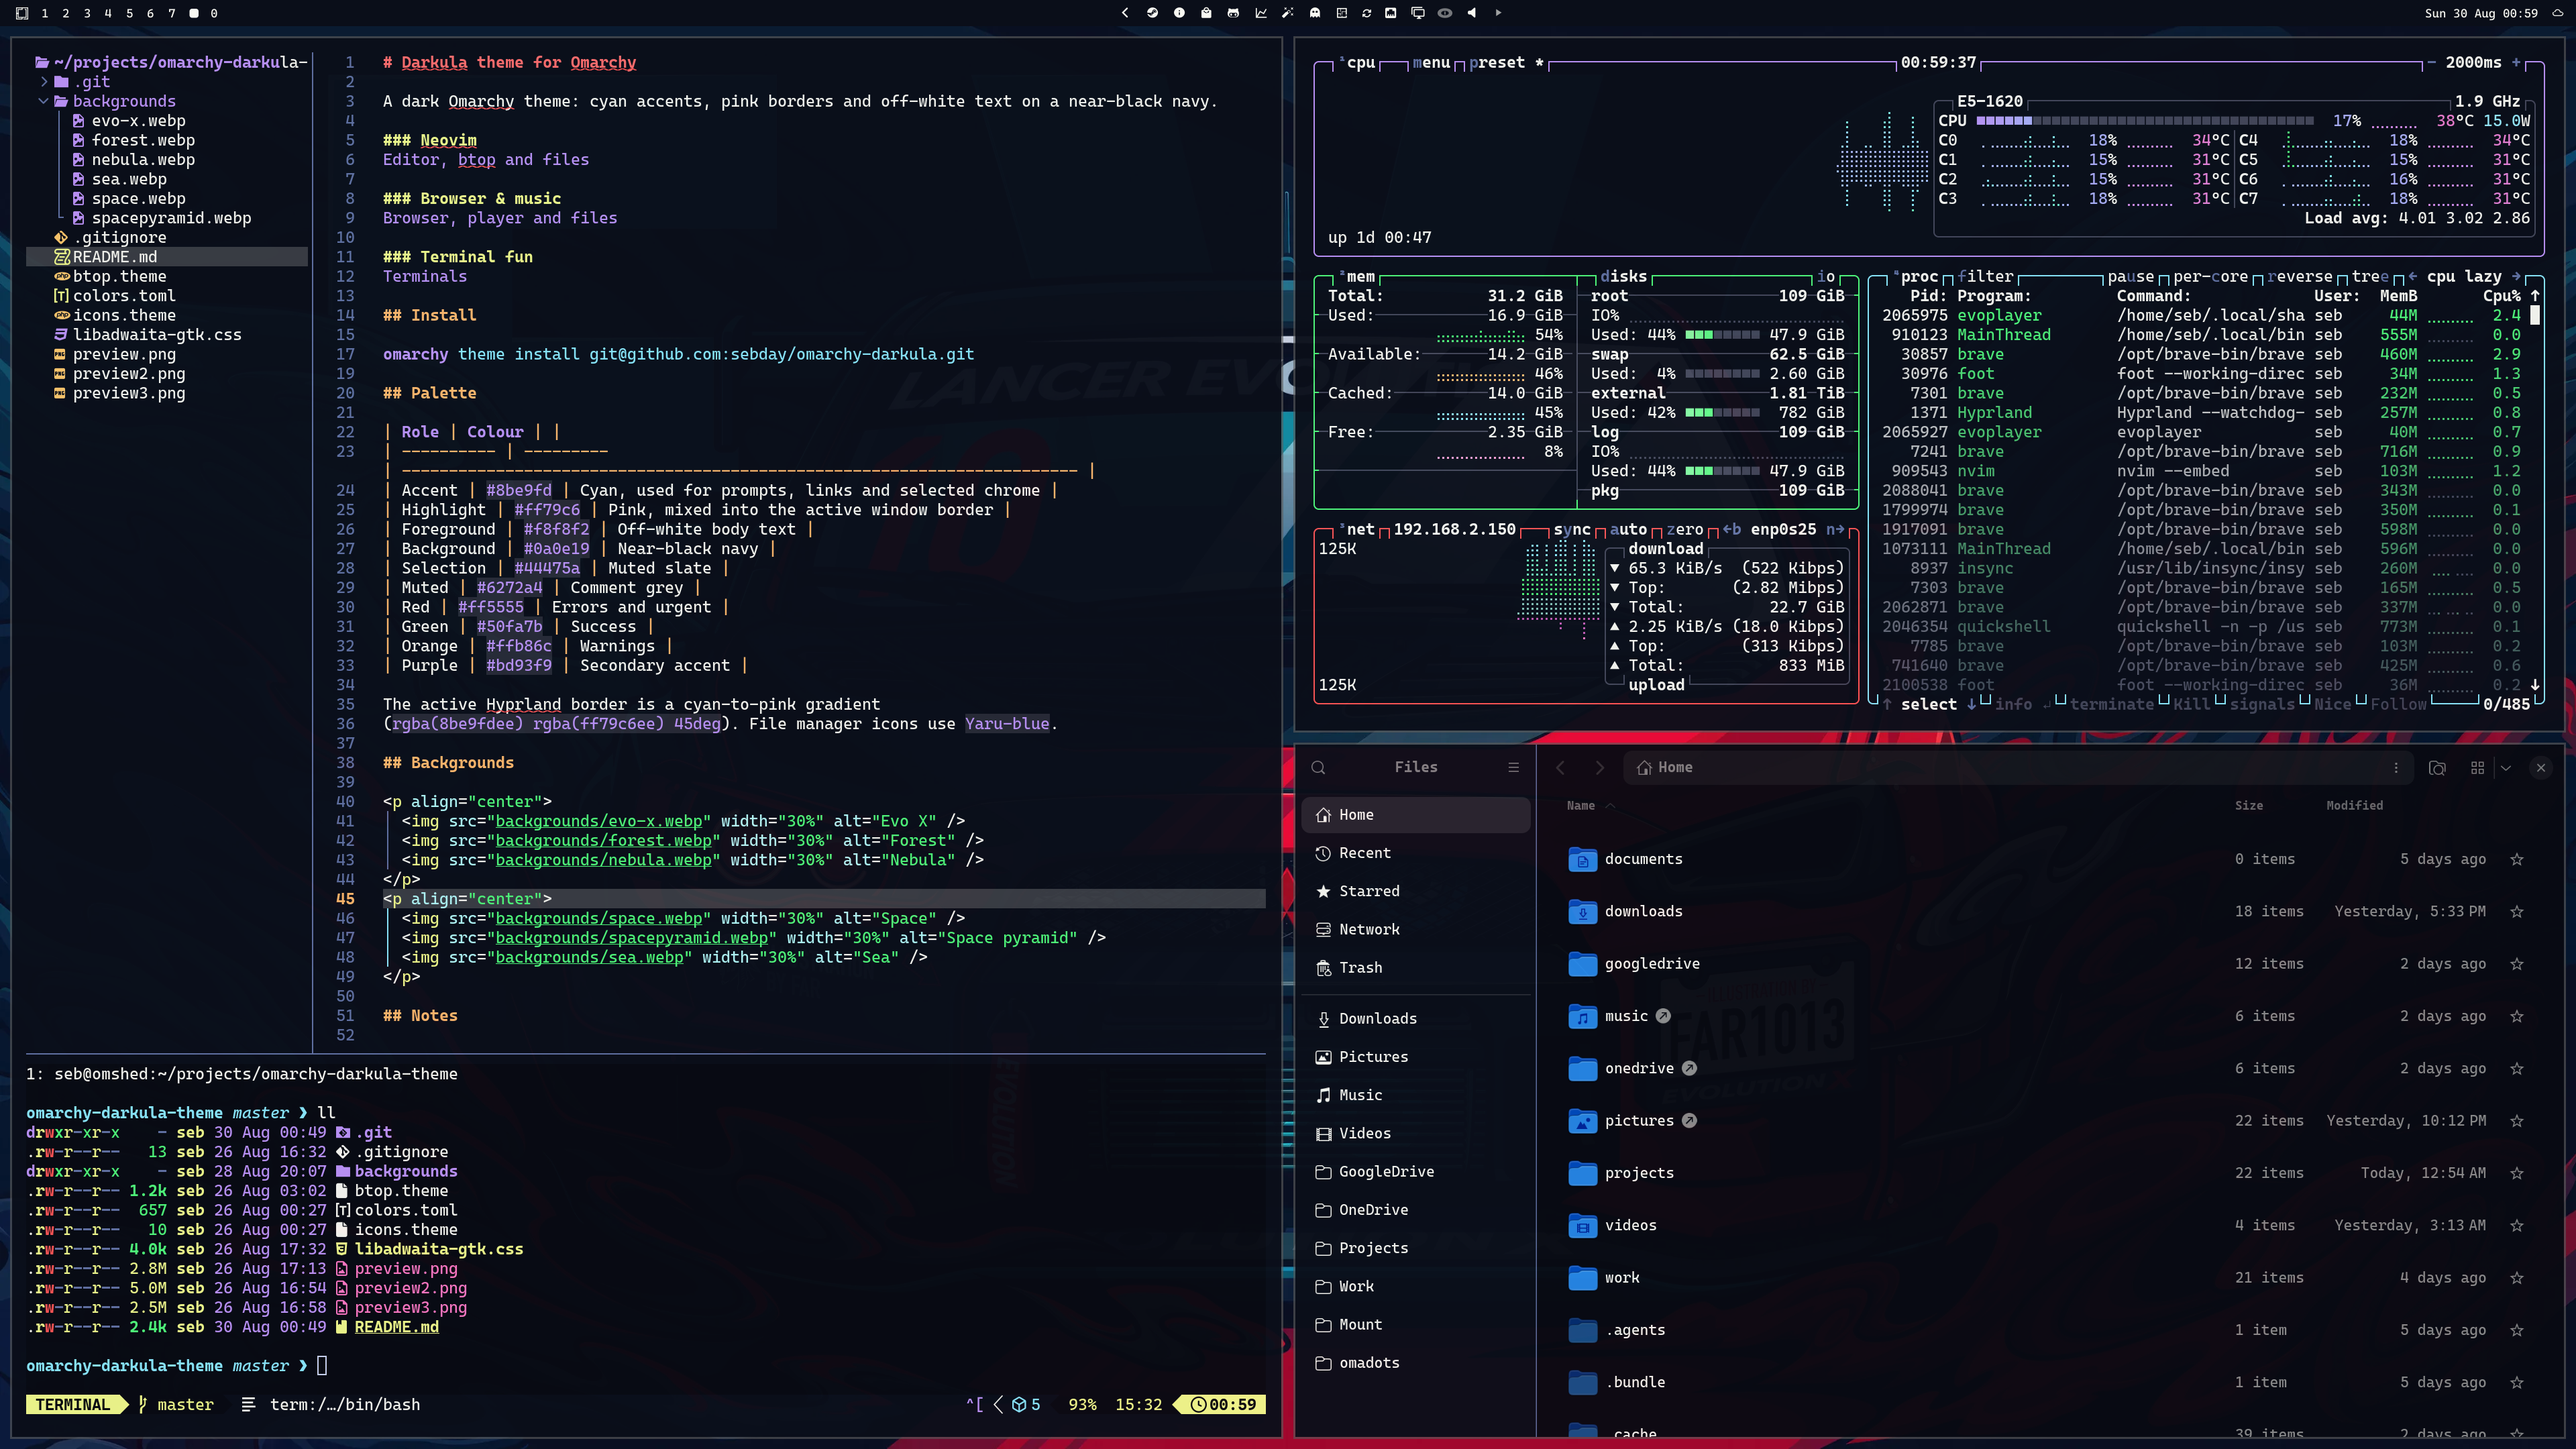
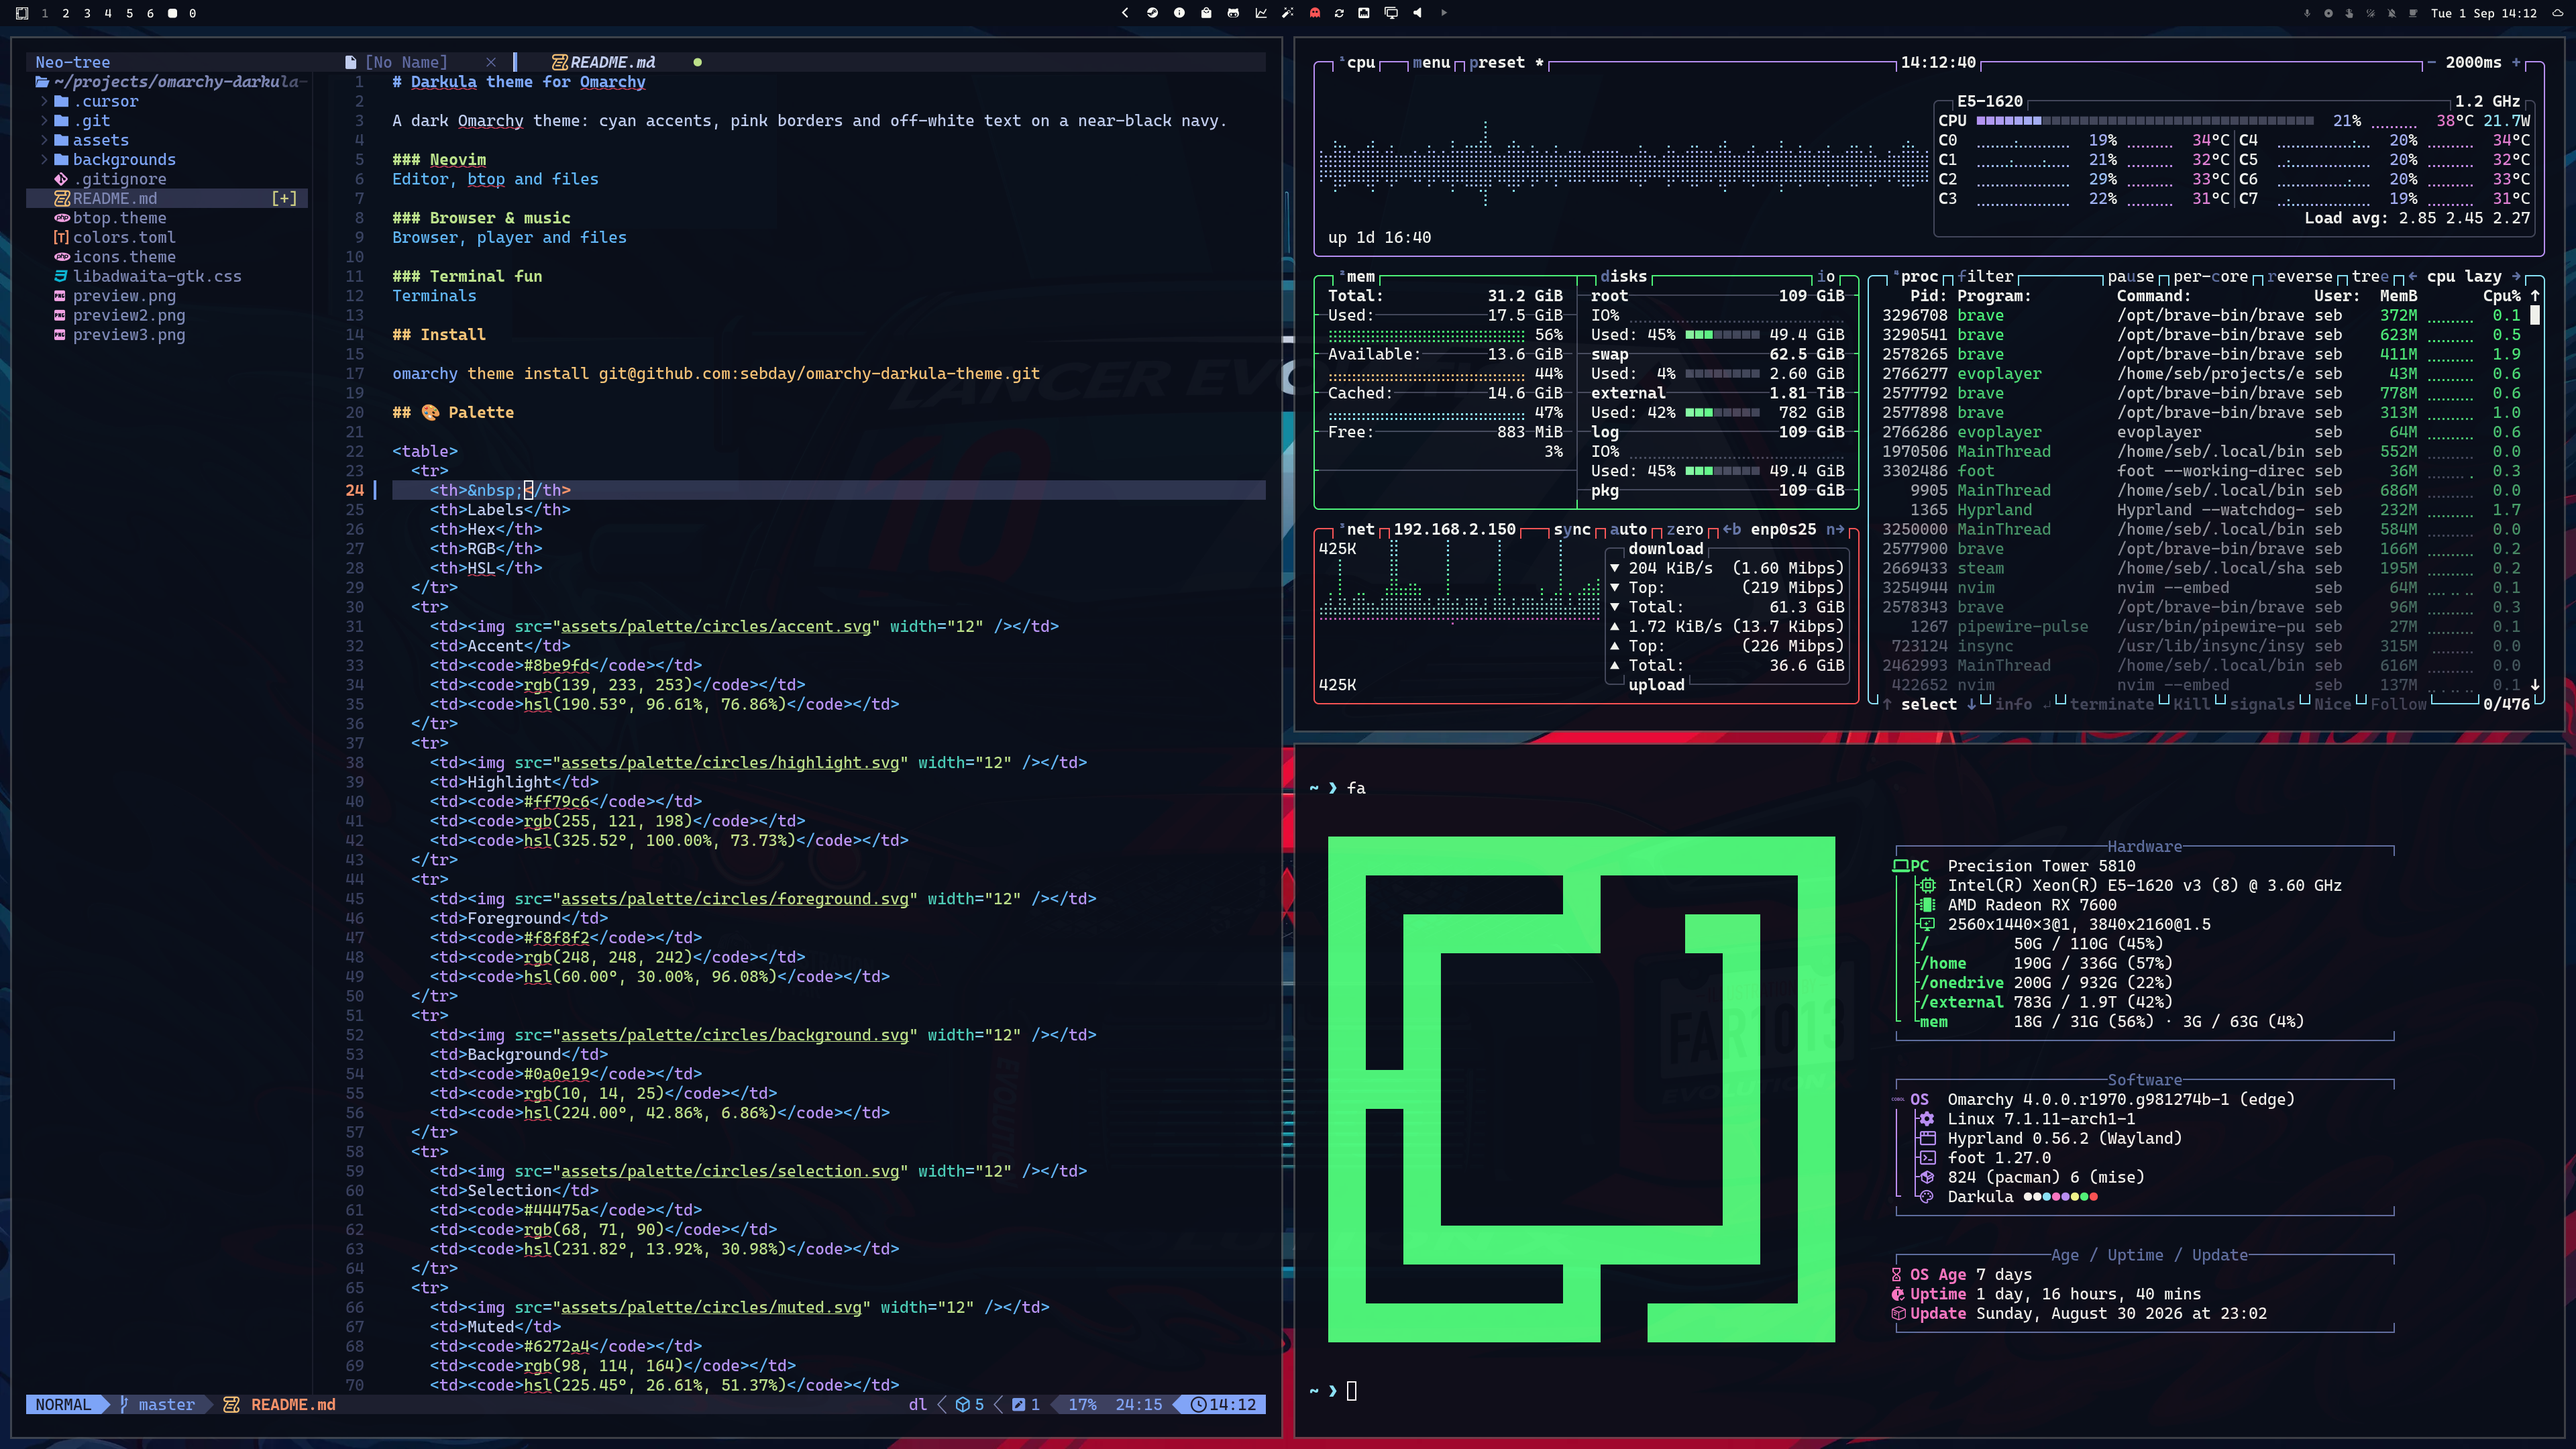
Add pallete & new preview

diff --git a/README.md b/README.md
@@ -8,29 +8,93 @@ A dark Omarchy theme: cyan accents, pink borders and off-white text on a near-bl
 ### Browser & music
 ![Browser, player and files](preview2.png)
 
-### Terminal fun
-![Terminals](preview3.png)
-
 ## Install
 
 ```bash
-omarchy theme install git@github.com:sebday/omarchy-darkula.git
+omarchy theme install git@github.com:sebday/omarchy-darkula-theme.git
 ```
 
-## Palette
+## 🎨 Palette
 
-| Role | Colour | |
-| ---------- | --------- | ------------------------------------------------------------------------ |
-| Accent | `#8be9fd` | Cyan, used for prompts, links and selected chrome |
-| Highlight | `#ff79c6` | Pink, mixed into the active window border |
-| Foreground | `#f8f8f2` | Off-white body text |
-| Background | `#0a0e19` | Near-black navy |
-| Selection | `#44475a` | Muted slate |
-| Muted | `#6272a4` | Comment grey |
-| Red | `#ff5555` | Errors and urgent |
-| Green | `#50fa7b` | Success |
-| Orange | `#ffb86c` | Warnings |
-| Purple | `#bd93f9` | Secondary accent |
+<table>
+  <tr>
+    <th>&nbsp;&nbsp;&nbsp;</th>
+    <th>Labels</th>
+    <th>Hex</th>
+    <th>RGB</th>
+    <th>HSL</th>
+  </tr>
+  <tr>
+    <td><img src="assets/palette/circles/accent.svg" width="12" /></td>
+    <td>Accent</td>
+    <td><code>#8be9fd</code></td>
+    <td><code>rgb(139, 233, 253)</code></td>
+    <td><code>hsl(190.53°, 96.61%, 76.86%)</code></td>
+  </tr>
+  <tr>
+    <td><img src="assets/palette/circles/highlight.svg" width="12" /></td>
+    <td>Highlight</td>
+    <td><code>#ff79c6</code></td>
+    <td><code>rgb(255, 121, 198)</code></td>
+    <td><code>hsl(325.52°, 100.00%, 73.73%)</code></td>
+  </tr>
+  <tr>
+    <td><img src="assets/palette/circles/foreground.svg" width="12" /></td>
+    <td>Foreground</td>
+    <td><code>#f8f8f2</code></td>
+    <td><code>rgb(248, 248, 242)</code></td>
+    <td><code>hsl(60.00°, 30.00%, 96.08%)</code></td>
+  </tr>
+  <tr>
+    <td><img src="assets/palette/circles/background.svg" width="12" /></td>
+    <td>Background</td>
+    <td><code>#0a0e19</code></td>
+    <td><code>rgb(10, 14, 25)</code></td>
+    <td><code>hsl(224.00°, 42.86%, 6.86%)</code></td>
+  </tr>
+  <tr>
+    <td><img src="assets/palette/circles/selection.svg" width="12" /></td>
+    <td>Selection</td>
+    <td><code>#44475a</code></td>
+    <td><code>rgb(68, 71, 90)</code></td>
+    <td><code>hsl(231.82°, 13.92%, 30.98%)</code></td>
+  </tr>
+  <tr>
+    <td><img src="assets/palette/circles/muted.svg" width="12" /></td>
+    <td>Muted</td>
+    <td><code>#6272a4</code></td>
+    <td><code>rgb(98, 114, 164)</code></td>
+    <td><code>hsl(225.45°, 26.61%, 51.37%)</code></td>
+  </tr>
+  <tr>
+    <td><img src="assets/palette/circles/red.svg" width="12" /></td>
+    <td>Red</td>
+    <td><code>#ff5555</code></td>
+    <td><code>rgb(255, 85, 85)</code></td>
+    <td><code>hsl(0.00°, 100.00%, 66.67%)</code></td>
+  </tr>
+  <tr>
+    <td><img src="assets/palette/circles/green.svg" width="12" /></td>
+    <td>Green</td>
+    <td><code>#50fa7b</code></td>
+    <td><code>rgb(80, 250, 123)</code></td>
+    <td><code>hsl(135.18°, 94.44%, 64.71%)</code></td>
+  </tr>
+  <tr>
+    <td><img src="assets/palette/circles/orange.svg" width="12" /></td>
+    <td>Orange</td>
+    <td><code>#ffb86c</code></td>
+    <td><code>rgb(255, 184, 108)</code></td>
+    <td><code>hsl(31.02°, 100.00%, 71.18%)</code></td>
+  </tr>
+  <tr>
+    <td><img src="assets/palette/circles/purple.svg" width="12" /></td>
+    <td>Purple</td>
+    <td><code>#bd93f9</code></td>
+    <td><code>rgb(189, 147, 249)</code></td>
+    <td><code>hsl(264.71°, 89.47%, 77.65%)</code></td>
+  </tr>
+</table>
 
 The active Hyprland border is a cyan-to-pink gradient
 (`rgba(8be9fdee) rgba(ff79c6ee) 45deg`). File manager icons use `Yaru-blue`.
@@ -50,20 +114,5 @@ The active Hyprland border is a cyan-to-pink gradient
 
 ## Notes
 
-`colors.toml` is the source of truth. Omarchy generates terminal, VSCode, Chromium, foot etc shell colours from it. `btop.theme`, `icons.theme` and `libadwaita-gtk.css` are checked in so those apps keep the same palette without waiting on templates.
-
 `libadwaita-gtk.css` supplies `@define-color` overrides for GTK4/libadwaita apps such as Nautilus & file dialogs. Stock Omarchy does not deploy GTK4 palette CSS; this file is for a patched install that generates it from `colors.toml` and writes `~/.config/gtk-4.0/gtk.css` on theme switch.
 
-To apply manually after installing the theme:
-
-```bash
-mkdir -p ~/.config/gtk-4.0
-cp ~/.config/omarchy/themes/darkula/libadwaita-gtk.css ~/.config/gtk-4.0/gtk.css
-pkill -USR1 nautilus 2>/dev/null || true
-```
-
-Restart any other open GTK4 apps if they do not pick up the change.
-
-## Licence
-
-MIT
